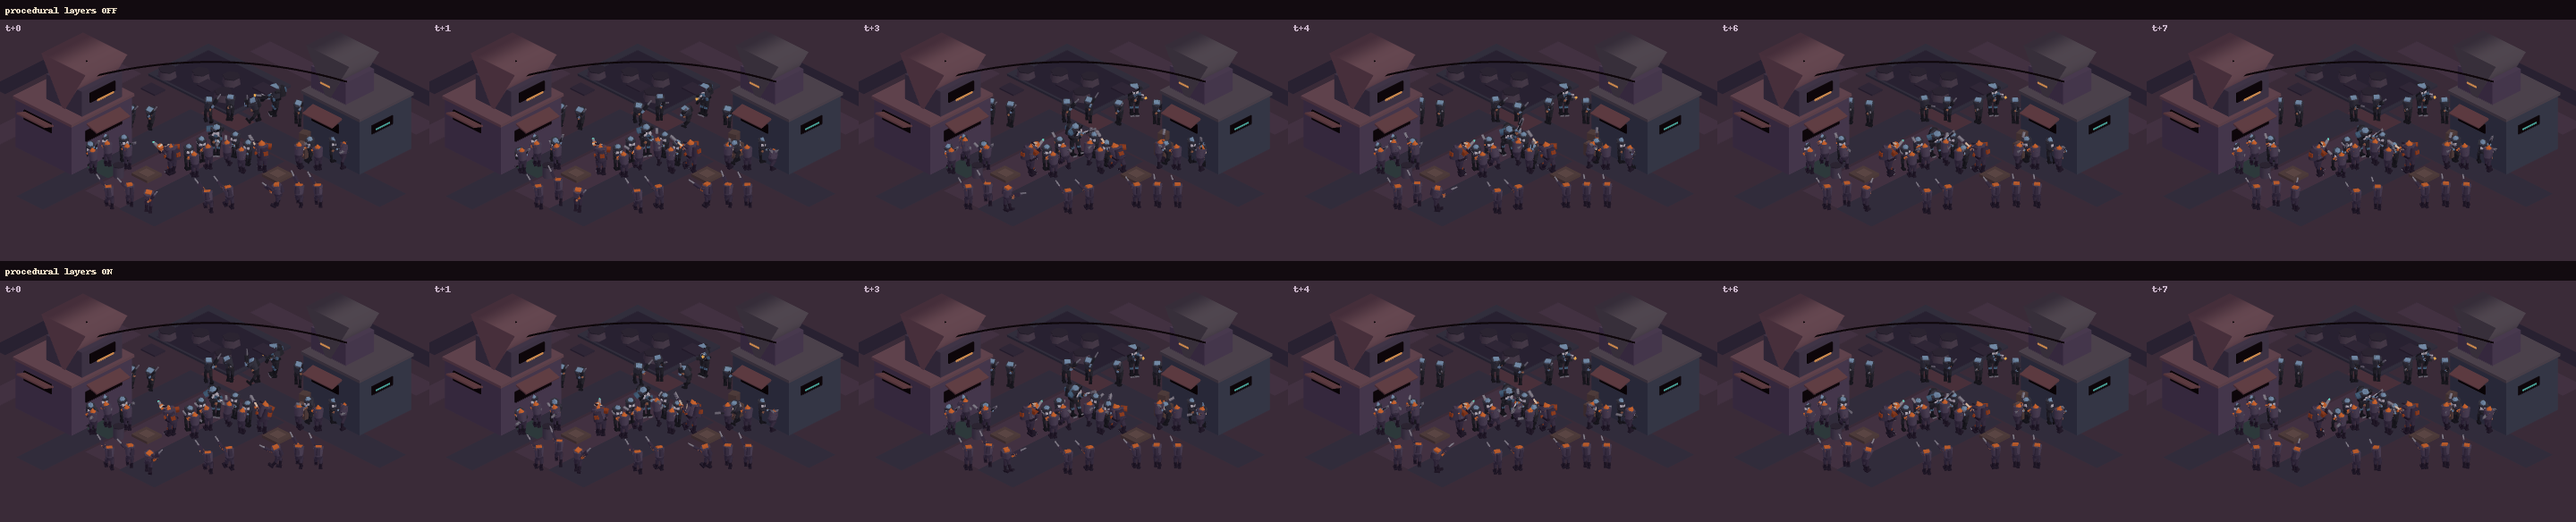
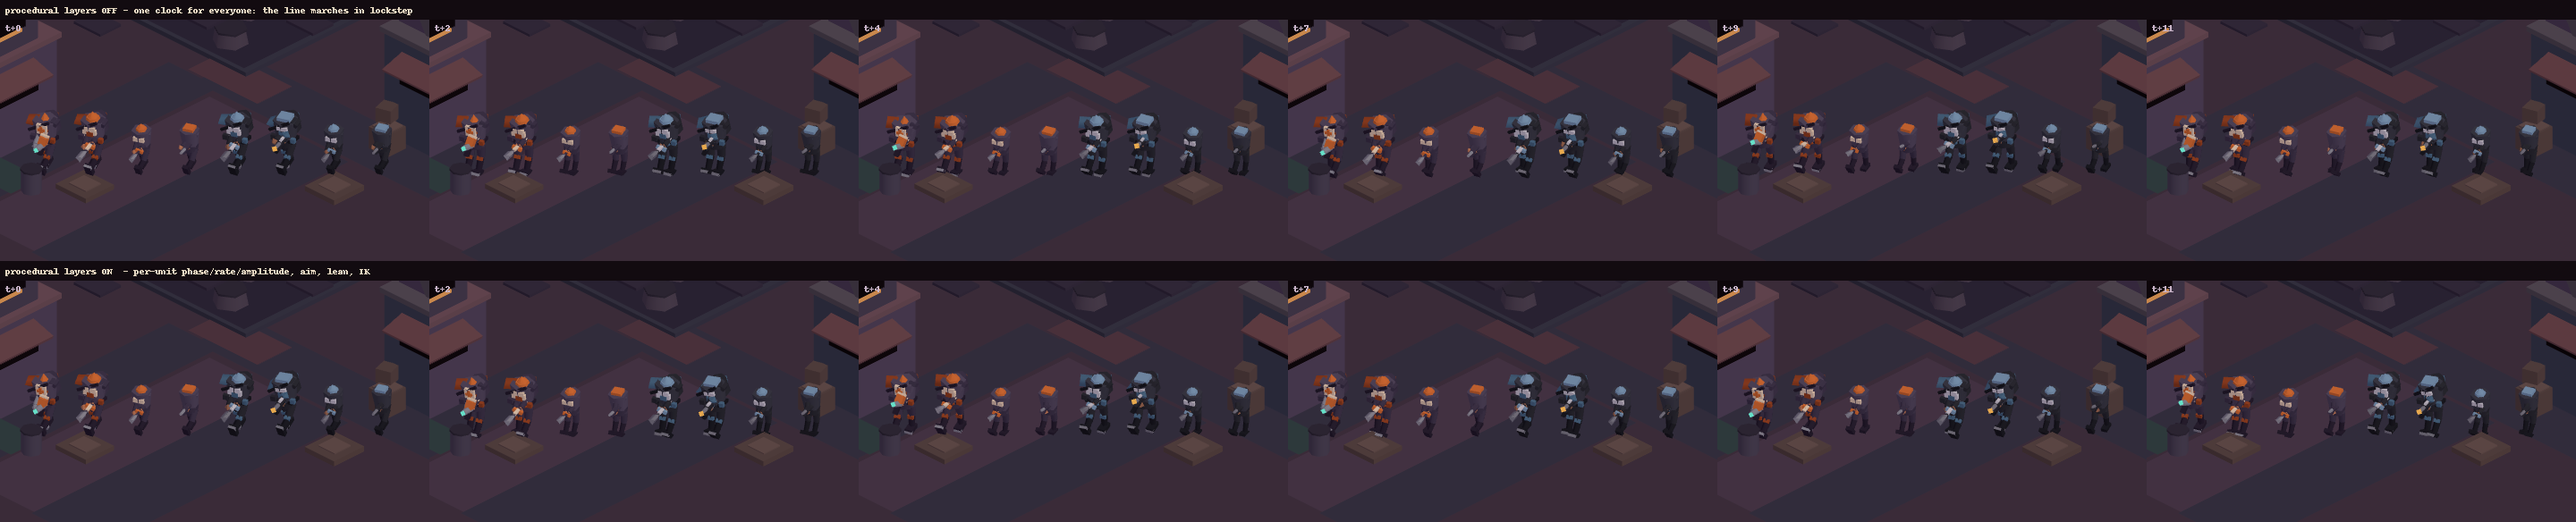
fix(webapp): pose the flat-procedural rigs at t=0
The first rendered frame ran before any integrator step, so every rig was
still at its bind transform stacked on the world origin. Invisible in a
one-unit view; in a lineup or a crowd the opening frame showed a single
overlapping figure. Steps once at construction.

Also re-shoots the layer ablation as a marching lineup, where per-unit phase
jitter is what the comparison is actually about.

Refs: #89

diff --git a/apps/webapp/src/match-proto/flat-procedural/scene.ts b/apps/webapp/src/match-proto/flat-procedural/scene.ts
@@ -521,6 +521,11 @@ export function mountFlatScene(host: HTMLElement, options: MountOptions = {}): F
     }
   };
 
+  // Pose everything once at t=0. Without this the first rendered frame shows
+  // the bind rigs still stacked at the world origin, which is invisible in a
+  // one-unit view and unmistakable in a lineup or a crowd.
+  stepOnce(0, STEP);
+
   const syncShadows = (): void => {
     for (let i = 0; i < drives.length; i += 1) {
       const drive = drives[i];
